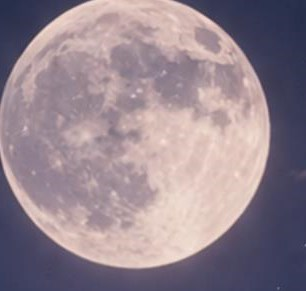
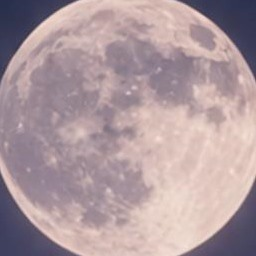
fix: 달을 온전한 원형으로 표시 (잘림/퍼짐 제거, 중앙 정렬)
- 달 중심 기준 정사각(256x256) 크롭
- 퍼지는 radial mask 제거 -> border-radius 50% 원형 이미지로 변경
- 히어로를 flex-end 오버레이에서 일반 흐름으로 바꿔 달을 본문 위에
  배치, 텍스트와 겹치지 않게 함

diff --git a/src/styles/global.css b/src/styles/global.css
@@ -111,10 +111,7 @@ a { color: inherit; text-decoration: none; }
 /* ===== 히어로 ===== */
 .hero {
   position: relative;
-  min-height: 46vh;
-  display: flex;
-  align-items: flex-end;
-  justify-content: center;
+  padding: 3.25rem 0 3.5rem;
   text-align: center;
   overflow: hidden;
   /* 보라빛 밤하늘 */
@@ -122,21 +119,16 @@ a { color: inherit; text-decoration: none; }
     radial-gradient(ellipse at 50% 6%, rgba(150,120,200,0.18), rgba(150,120,200,0) 50%),
     linear-gradient(180deg, #1d1834 0%, var(--bg) 75%);
 }
-/* 달 사진 — 원본 크기 가깝게(선명) + 가장자리 보라로 페이드 */
-.hero::before {
-  content: '';
-  position: absolute;
-  top: -0.5rem;
-  left: 50%;
-  transform: translateX(-50%);
-  width: min(420px, 92%);
-  height: 290px;
-  background: var(--moon-bg) center center / cover no-repeat;
-  -webkit-mask: radial-gradient(ellipse 62% 64% at 50% 44%, #000 52%, transparent 80%);
-          mask: radial-gradient(ellipse 62% 64% at 50% 44%, #000 52%, transparent 80%);
-  pointer-events: none;
+/* 달 — 온전한 원형, 가운데 정렬 */
+.hero-moon {
+  display: block;
+  width: min(220px, 56vw);
+  aspect-ratio: 1 / 1;
+  border-radius: 50%;
+  object-fit: cover;
+  margin: 0 auto 1.75rem;
+  box-shadow: 0 0 55px 8px rgba(225,215,185,0.20);
 }
-.hero .container { padding-bottom: 3.5rem; }
 .hero h1 { color: #f3eee2; position: relative; z-index: 3; text-shadow: 0 2px 22px rgba(10,8,16,0.85); }
 .hero p { color: #d7d0e0; position: relative; z-index: 3; text-shadow: 0 1px 12px rgba(10,8,16,0.8); }
 .hero-actions { position: relative; z-index: 3; }
@@ -228,6 +220,6 @@ a { color: inherit; text-decoration: none; }
   .nav { gap: 0.15rem; font-size: 0.85rem; }
   .nav a { padding: 0.35rem 0.5rem; }
   .product-detail { grid-template-columns: 1fr; }
-  .hero { min-height: 42vh; }
+  .hero { padding: 2.5rem 0 3rem; }
   .hero p { font-size: 1.02rem; }
 }